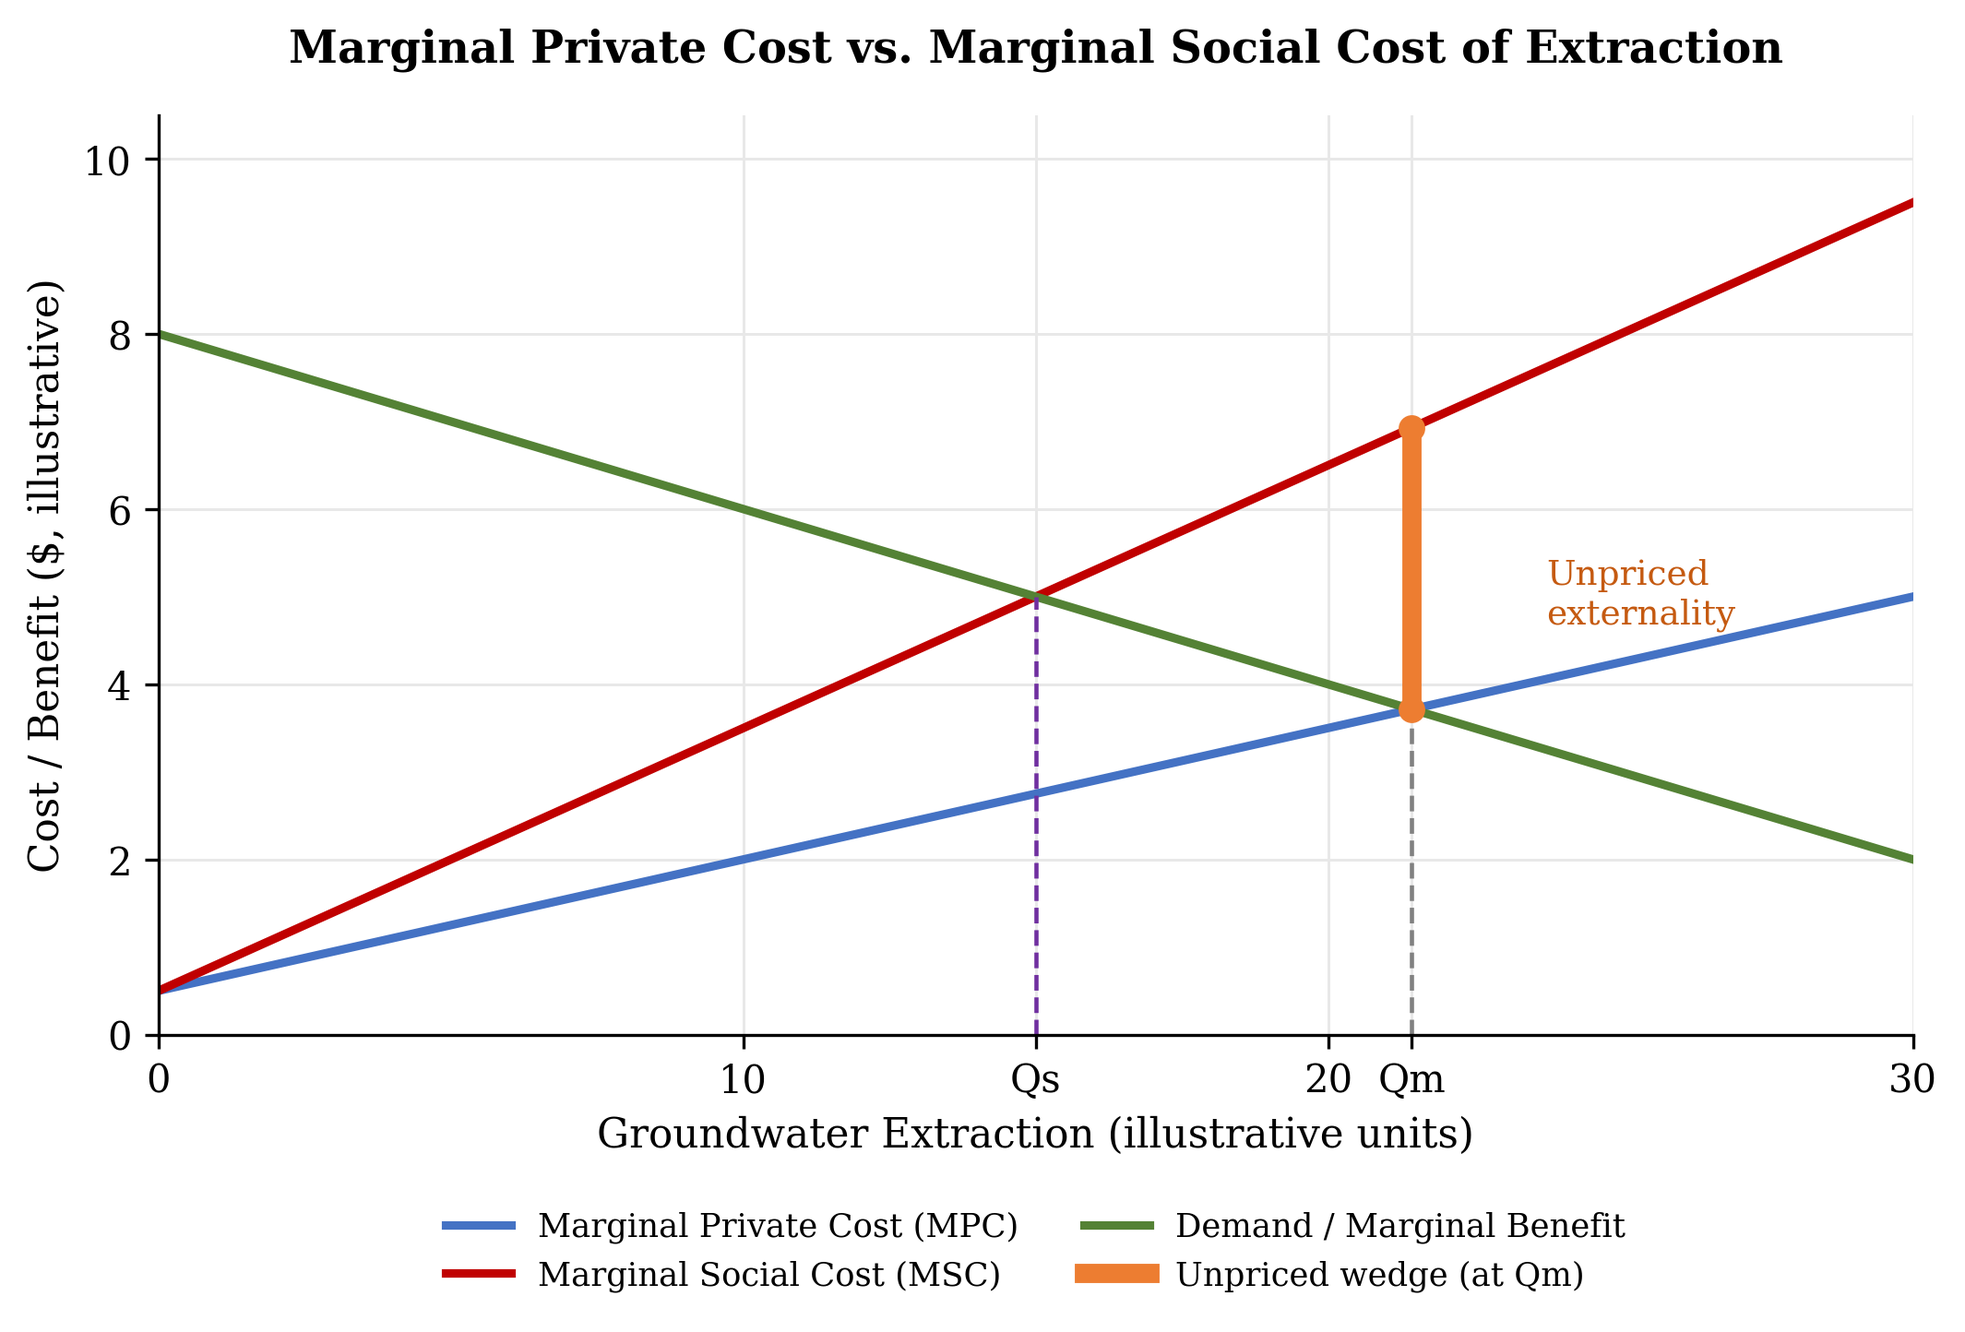
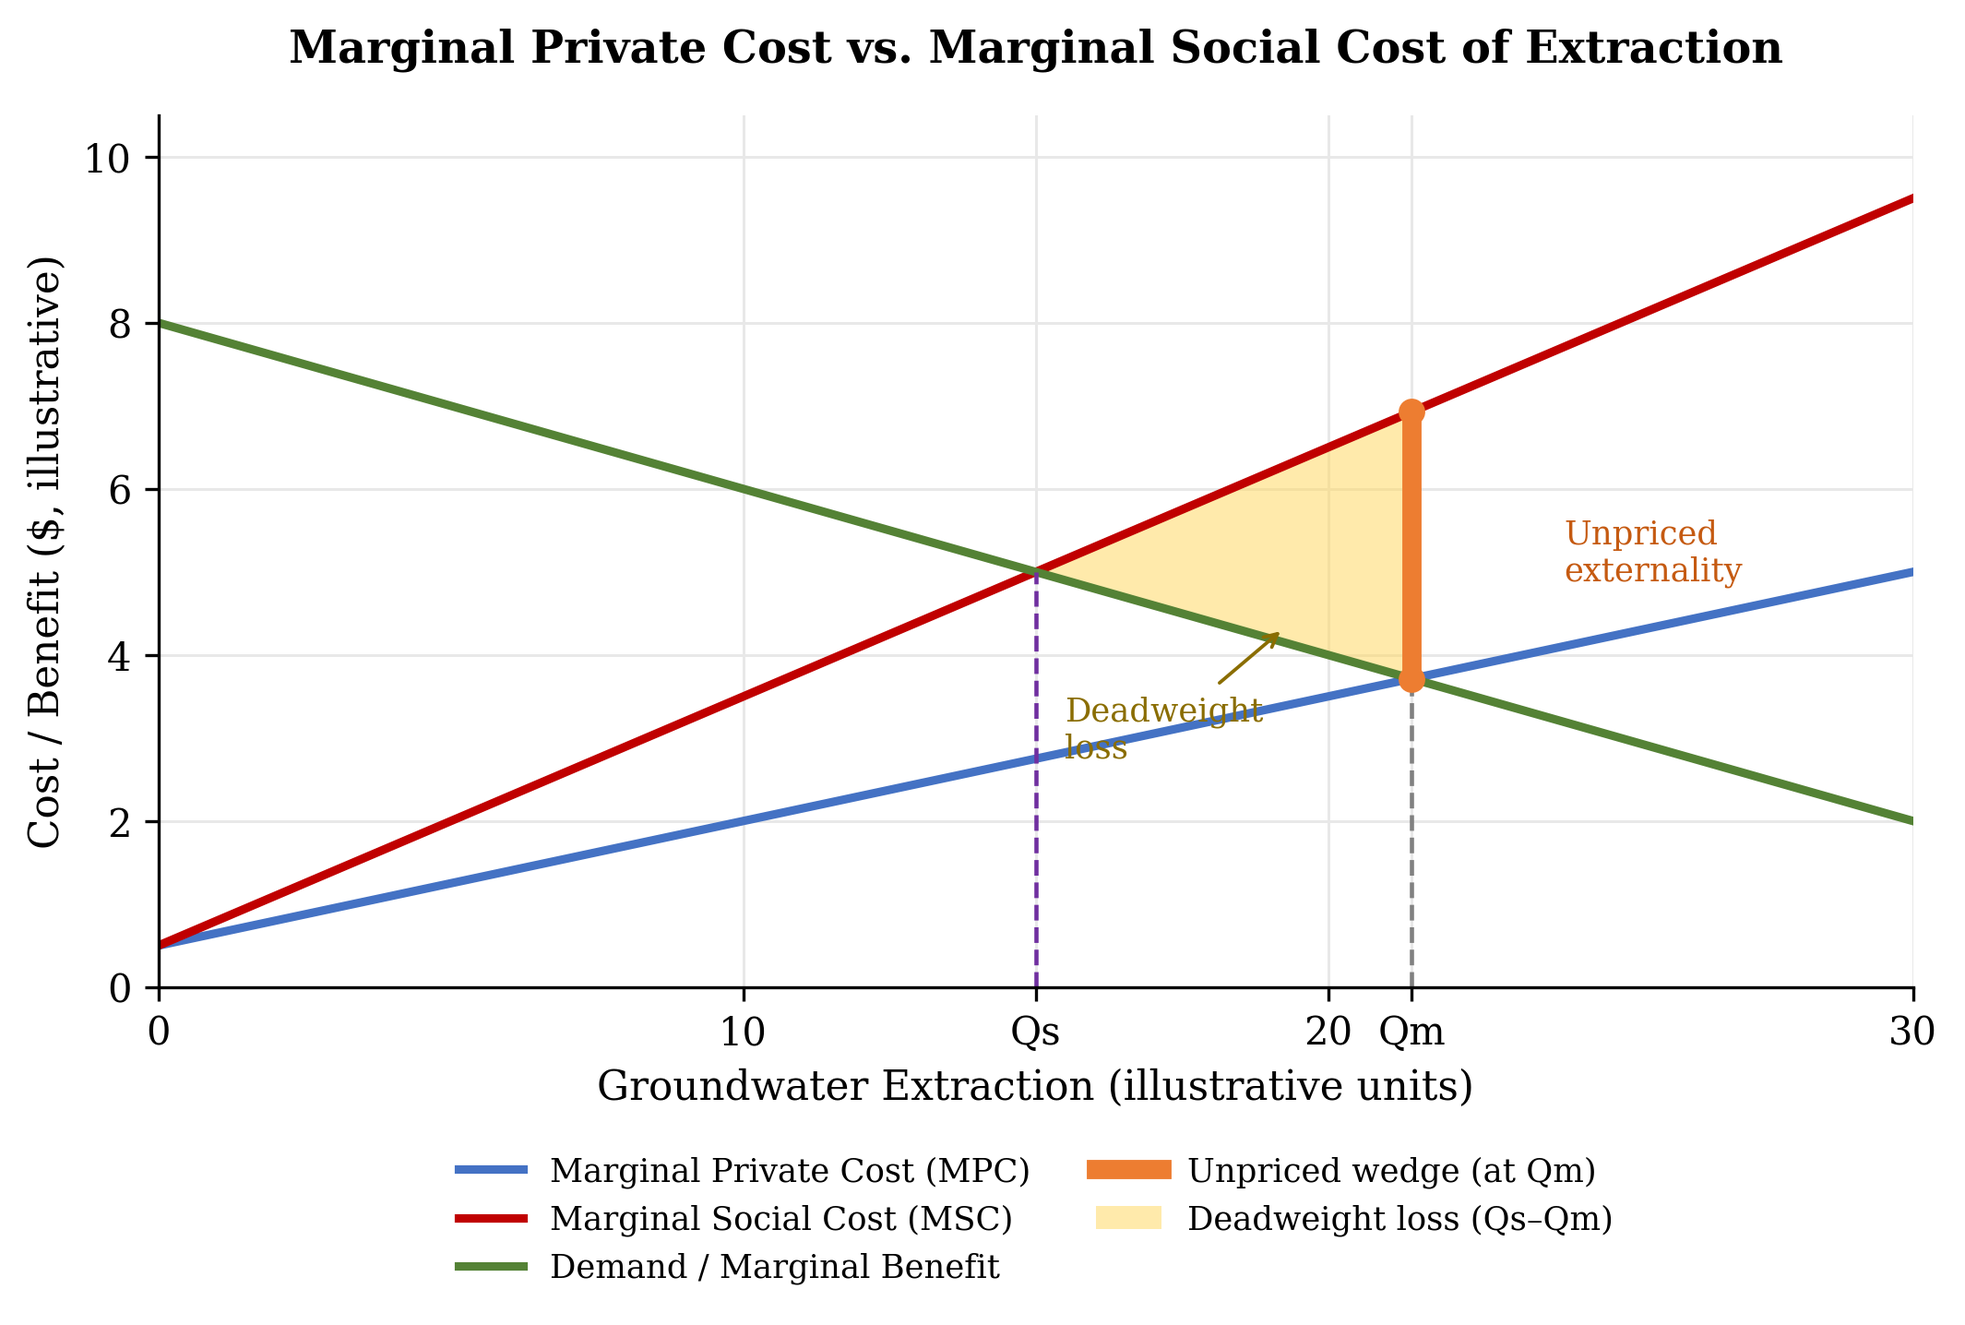
Second draft: Figure 1 rebuilt by aquifer system
The first draft's figure charted the whole Central sector against the
combined 26 mgd yield, where every modern bar sits under the line — the
opposite of the paper's argument. Aggregation let Kama'ole's unused
allowance absorb Kahului's overdraft. Figure 1 is now four per-system
panels against each system's own yield; the sector chart survives as
Figure 3, captioned with what it obscures.

Also: the aggregation objection and its answer, the public-trust ground
for permitting existing users, the cap rather than the fee as the binding
instrument, the derived Kama'ole figure flagged, the scaffold's
instruction line removed from the title page, and the body trimmed back
toward four pages.

Claude-Session: https://claude.ai/code/session_01SR48cr5PFnDzaUJgfx5jLE

diff --git a/drafts/2026-09-18-draft.md b/drafts/2026-09-18-draft.md
@@ -1,0 +1,98 @@
+---
+type: draft
+engagement: maui-groundwater
+capability: economic-research
+date: 2026-09-18
+status: draft
+---
+
+# Groundwater Extraction and the Contracting Recharge Subsidy in Central Maui
+
+*Second draft. Rebuilds Figure 1 by aquifer system after the first version's
+sector-level chart showed the basin inside its combined yield — the opposite of the
+argument. Adds the aggregation objection, the public-trust ground for permitting
+existing users, and the elasticity limit on the fee.*
+
+## The Challenge
+
+Central Maui's Kahului and Pā'ia aquifer systems are being pumped above their published sustainable-yield figures. The latest 12-month moving average through May 31, 2026 reports about 7.760 mgd from Kahului and 15.175 mgd from Pā'ia (Maui Now, Sept. 2026, citing CWRM Deputy Director Ciara Kahahane) — against sustainable yields of 1 mgd and 7 mgd, respectively (CWRM, 2019 WRPP, Table F-11), or roughly 776% and 217% of yield. The same aquifer complex supports agriculture, Maui County's municipal system (Maui County DWS, Water Source Report, Feb. 10, 2026), and county-projected population growth through 2035 (Maui County DWS, WUDP Summary, Feb. 2025). Neither system is designated a Ground Water Management Area, so CWRM cannot yet impose a volume cap through water-use permits (Haw. Rev. Stat. §174C-41). Extraction is unpriced and unmeasured against a current recharge benchmark, while the imported water that may be providing that recharge shrinks under drought.
+
+## What the Sustainable-Yield Numbers Measure
+
+The sustainable-yield number is a planning benchmark, not a real-time accounting of every gallon in an aquifer. CWRM's Table F-11 note is central: published yields for Kahului and Pā'ia ignore significant return irrigation (CWRM, 2019 WRPP, Table F-11), water that seeps back and is later withdrawn unmetered. The 1 mgd and 7 mgd figures are primary CWRM values (CWRM, 2019 WRPP); the 7.760 mgd and 15.175 mgd figures are a moving average from Maui Now (Sept. 2026) — reported, not primary, data.
+
+The numbers also do not fully reconcile across time. CWRM's May 2026 staff submittal reports the full Central sector — Kahului, Pā'ia, Makawao, and Kama'ole — withdrew 16.7 mgd in 2023, with Kahului alone at 5.2 mgd (CWRM Staff Submittal B2, May 19, 2026). The May 2026 average above covers only two of those four systems and already totals about 22.9 mgd. Part of the gap is scope, but the growth in under three years cannot be fully explained by scope alone — itself evidence of the gap CWRM should close.
+
+## The Economics
+
+Four mechanisms explain why the system can overpump despite physical uncertainty. First, groundwater is a common-pool resource: Mahi Pono, Maui County's DWS, and other well users draw from the same aquifer (Maui County DWS, Water Source Report, Feb. 10, 2026), and no single user can protect the shared lens alone. If freshwater is depleted, saltwater rises and contaminates it.
+
+Second, extraction is a negative externality: pumping that lowers water levels or pulls the transition zone inland costs municipal customers and the public, though the record does not yet prove measurable chloride damage here (USGS, Jan. 2025). Third, groundwater is mispriced: a large user pays to operate a pump but not the scarcity cost imposed on future users. Fourth, return irrigation may replenish groundwater at no cost to the pumper (CWRM, 2019 WRPP, Table F-11), unpriced until drought shrinks the flow.
+
+## Implications — What Happens Next
+
+If East Maui surface water diminishes, agriculture can substitute groundwater, preserving near-term production while drawing down the buffer return irrigation had created.
+
+Central Maui pumping reached a much higher reported peak of about 120 mgd in 1996, before sugarcane ended (CWRM Staff Submittal B2, May 19, 2026). The issue is not that today's rate is the highest ever — it is that pumping is high relative to published yield, the return-flow buffer is contracting, and the state lacks one updated system connecting pumping, deliveries, recharge, chloride, and water levels here. No deep monitor wells exist in the study area to track the freshwater lens or transition zone (USGS, Jan. 2025), and USGS ranks all four Central-sector systems high priority for monitoring (USGS, Monitoring Needs Assessment, 2020) — a documented monitoring gap, not a demonstrated harm, and the one this paper asks CWRM to close.
+
+## Recommendation
+
+I recommend CWRM designate the Kahului and Pā'ia aquifer systems as Ground Water Management Areas under Hawaiʻi Revised Statutes §174C-41, coordinating with the Central aquifer sector where flows connect them. Permitting existing users regulates a public resource rather than taking a private one: the State holds all water in trust and there are no vested rights in the use of public water (In re Water Use Permit Applications, 94 Haw. 97 (2000); Haw. Rev. Stat. §174C-2(b)). Kahului alone clears the statutory 90%-of-sustainable-yield designation trigger (§174C-44) on every reported vintage — 520–776% of its 1 mgd yield is not a marginal case.
+
+CWRM should require large agricultural, commercial, and industrial users pumping over 100,000 gallons per day (0.1 mgd) to install audited digital meters — my proposed line, not an existing exemption. The threshold targets the few large users who account for most withdrawals and leaves small users outside it.
+
+The first year should establish a verified baseline of withdrawals, deliveries, return flow, water levels, and chloride; CWRM should then set a basin cap using updated sustainable-yield estimates. The fee applies to withdrawals above each large user's permitted allotment, rising toward the cap — illustratively, $2–10 per 1,000 gallons above allotment, with the final schedule set once baseline data are verified. CWRM would administer permits, audit records, and penalize tampering; agricultural users get one year to comply.
+
+The cap does the binding work here, not the fee: once East Maui deliveries fall, groundwater has few near-term substitutes, so demand is only weakly price-responsive and the fee alone would mostly transfer revenue rather than reduce withdrawals. Its purpose is to fund monitoring and ration marginal use once the cap binds.
+
+Designation is therefore justified not because the existing sustainable-yield percentages are perfectly accurate, but because the State cannot responsibly manage a contracting recharge system it does not currently measure or regulate.
+
+## Objections
+
+The strongest objection is that overdraft appears overstated because imported surface water returns to the aquifer (CWRM, 2019 WRPP, Table F-11), and a cap based on the old denominator could restrict agriculture unnecessarily. My response: this argues for better measurement, not an unregulated basin — designation lets CWRM update the denominator and adjust the cap if data show balance.
+
+A second objection is that Figure 3's sector total cuts against this paper: Central-sector withdrawals sit comfortably under the combined 26 mgd sustainable yield. That holds only if the sector, not the system, is the right regulatory unit. It is not: CWRM sets and measures yields at the system scale — Kahului's 1 mgd yield is a system-level number — so Kamaʻole's unused 11 mgd offsets Kahului's deficit on paper without moving water to Kahului's wells. Return flow crossing boundaries justifies modeling recharge at the sector scale, not regulating at it — designation should track the unit CWRM licenses and measures, which is why this paper targets Kahului and Pāʻia specifically (Figure 1), not the sector.
+
+A third objection is that CWRM funded a roughly $442,000 USGS study in May 2026, so some will argue for waiting (CWRM Staff Submittal B2, May 19, 2026). Waiting leaves large users unregulated meanwhile; designation should begin now, with year one as a measurement period and the cap revised as better estimates arrive.
+
+## Figure 1
+
+![Figure 1](../analysis/figures/figure-1-withdrawals-by-system.png)
+
+*Figure 1. Reported withdrawals by aquifer system against each system's own CWRM sustainable-yield benchmark (CWRM, 2019 WRPP, Table F-11; CWRM Staff Submittal B2, May 19, 2026; Maui Now, Sept. 2026). Kahului exceeds its 1 mgd yield by 520–776% across every reported vintage; Pāʻia is near its 7 mgd yield in 2023 and over it by May 2026; Makawao and Kamaʻole sit well under their own yields (Kamaʻole's 2023 figure is computed as the Central-sector remainder). Aggregating to the Central-sector level, as Figure 3 does, obscures this: Kamaʻole's unused allowance offsets Kahului's deficit on paper without moving water to wells near Kahului. May 2026 bars (hatched) cover only Kahului and Pāʻia and are reported, not primary, data.*
+
+## Figure 2
+
+![Figure 2](../analysis/figures/figure-2-externality-diagram.png)
+
+*Figure 2. Illustrative diagram of the mechanism described in “The Economics”: because pumping is unpriced, users extract to Qm, where demand meets only the marginal private cost (MPC), rather than to the efficient quantity Qs, where demand meets the marginal social cost (MSC). The orange bracket marks the unpriced externality at Qm; the shaded triangle is the resulting deadweight loss. Curve shapes are illustrative and not fitted to measured cost data, since none exists; the downward-sloping demand curve is a simplification — as “Implications” notes, agriculture substitutes groundwater for surface water when deliveries fall, so demand may be closer to vertical in practice, which is why this paper treats the quantity cap, not the fee, as the instrument that does the binding work.*
+
+## Figure 3
+
+![Figure 3](../analysis/figures/figure-3-sector-context.png)
+
+*Figure 3. Central aquifer sector withdrawals against the Central-sector sustainable-yield benchmark, 1996–May 2026 (CWRM Staff Submittal B2, May 19, 2026; Maui Now, Sept. 2026). Shown for long-run context only: today's sector-level withdrawals are well below the 1996 peak and, on this aggregated view, under the combined 26 mgd yield. That is precisely the aggregation problem Figure 1 and Objections address — the sector total is compliant while Kahului, individually, is not.*
+
+## References
+
+- Commission on Water Resource Management. Water Resource Protection Plan 2019 Update. Table F-11, aquifer notes for the Kahului and Pā'ia aquifer systems.
+
+- Commission on Water Resource Management. Staff Submittal B2, May 19, 2026: Joint Funding Agreement with the U.S. Geological Survey, "Analysis of Groundwater Flow in the Central Aquifer Sector, Maui, Hawai'i."
+
+- U.S. Geological Survey, Pacific Islands Water Science Center. "Analysis of Groundwater Flow in the Central Aquifer Sector, Maui, Hawai'i." January 2025. Exhibit 2 to CWRM Staff Submittal B2.
+
+- U.S. Geological Survey. Hydrological Monitoring Needs Assessment for the State of Hawai'i. 2020.
+
+- In re Water Use Permit Applications (Waiahole), 94 Haw. 97, 9 P.3d 409 (2000).
+
+- Haw. Rev. Stat. §174C-41 (ground water management area designation); §174C-44 (designation criteria, including the ninety per cent of sustainable yield threshold); §174C-2(b).
+
+- Maui Now. [Title], September 2026. [Reported CWRM 12-month moving average through May 31, 2026.]
+
+- Maui County Department of Water Supply. Water Source Report, February 10, 2026.
+
+- Maui County Department of Water Supply. Water Use and Development Plan – Summary Document (WUDP Summary). February 2025.
+
+---
+
+-Drafted with help from Claude (Anthropic, 2026); reviewed and edited by me.

diff --git a/prompt-log.md b/prompt-log.md
@@ -4,6 +4,7 @@ Running record of AI sessions that materially shaped this repository — not a t
 
 | Date | Tool | Session | Summary |
 |---|---|---|---|
+| 2026-09-18 | Claude Code | First draft attacked; Figure 1 rebuilt | Wrote the first full draft and had Claude Code review it against the rubric rather than proofread it. The finding that mattered was about my own figure: I had charted withdrawals for the whole Central sector against the combined 26 mgd sustainable yield, and every modern bar sits under that line — 22.9 against 26 in May 2026. My only evidence figure showed a basin inside its limit while the text demanded a cap. The cause was aggregation: pooling four systems lets Kama'ole's unused 11 mgd absorb Kahului's 7.760 against a yield of 1. I rebuilt Figure 1 as four per-system panels, each against its own yield line, and kept the sector chart as Figure 3 with a caption saying what it obscures. The same finding gave me the objection I was missing — that the sector total is compliant — and my answer to it, that CWRM sets and measures yields at the system scale, so return flow crossing boundaries justifies modeling recharge at the sector scale but not regulating at it. Claude Code also caught that my externality diagram assumed price-responsive demand while my own Implications section described agriculture substituting groundwater when surface deliveries fall, which is close to vertical demand; I resolved it by making the cap the binding instrument and saying so. Second pass caught four smaller things: the scaffold's instruction line still sitting on my title page, four references never cited in the text, Kama'ole's 3.7 mgd being a figure I had derived by subtraction rather than read from the source, and a body over four pages. Fixed all four — the public trust doctrine now earns its citation by answering the takings objection to permitting existing users. |
 | 2026-09-16 | Claude Code | Research paper Steps 1–3: brief corrected, spec built, first draft committed | Committed the brief I had drafted, then had Claude Code check it against the assignment page and the syllabus email. It confirmed the `economic-research` capability slug the assignment names, stood up the capability folder, and put `scratch/` in `.gitignore`. The substantive work came from the source documents. I supplied CWRM's 2019 WRPP Table F-11, whose note says the Kahului and Pā'ia sustainable yields "ignore significant importation of surface water (return irrigation)" and that this is why withdrawals far above those yields have shown no apparent negative impacts — the State's own version of the argument I had attributed to Mahi Pono alone. That forced the thesis off the overdraft percentages and onto the contraction of the recharge subsidy. I then supplied the real CWRM Staff Submittal B2 of May 19, 2026 with the USGS project document attached, which corrected four more things: Kahului and Pā'ia are aquifer systems inside the Central sector, not sectors; 2023 withdrawals were 5.2 mgd for Kahului and 6.8 for Pā'ia against a yield of 7, so Pā'ia was under its limit; the sector peaked at 120 mgd in 1996 and the 2016 end of sugarcane cut the recharge base; and the aquifer-system boundaries are not hydrologic, so flow crosses them and every per-aquifer ratio is qualified. Claude Code had earlier told me the May 19 submittal was the primary source behind the reported pumpage figures and that I should cite it instead of the news coverage. That was wrong — the file it had seen was public testimony from an advocacy group, and it said so once I supplied the actual staff submittal. Two limits I decided rather than it: the 12-MAV figures stay in with a provenance note, because the originals need a records request that will not return inside the timeline; and the paper's prose is mine. Claude Code built the Word scaffold, the falsifier rewrites, and the section prompts; I wrote the draft. |
 | 2026-09-16 | Claude (chat) | Brief frontmatter, disclosure line and Step 2 plan | Used a chat session to add repo frontmatter to the brief and to sketch the sub-steps for the spec — data sources, figures, success criteria. It guessed `bus-620-research-paper` for the engagement slug and flagged the guess rather than asserting it; I changed it to `maui-groundwater` to match the topic-slug convention the perfect-competition engagement set. Its disclosure line did not match the repo's standard wording and dropped the "reviewed and edited by me" clause, which is the part the convention exists to assert; replaced with the standard line. |
 | 2026-09-11 | Claude Code | Adam's Stage 3 feedback checked and applied | Pasted Adam's feedback in and had it checked against the workbook rather than taken on trust. Three of his four items described the 09-09 draft he had read (`30d91bb`), not the committed version: the at-a-loss section, the hypothesis revisit and the disclosure line were all finished on the evening of 09-10. His fourth item was real and had survived into the committed prose — I had written that price exceeds average variable cost on every crop, which is only true at the bed counts the plan plants. Claude rebuilt the cost model independently from `Inputs` and confirmed his exact figures: mesclun AVC above $2,700 at beds 13 and 14 ($2,716.35 and $2,702.51), tomato AVC above $8,800 from bed 16 ($8,840.90) to $12,016.72 at bed 20, carrots never crossing. It traced both exceptions to the same 720-hour wage boundary as the bed 6 dip, which is what made the correction worth more than a hedge. It also found a second copy of the overgeneralization in cell A10 of the AVC sheet, which I would have missed because it is not in a markdown file, and two files missing the AI-disclosure line the repo convention requires — the decision memo and the capability README. Adam's provenance note was itself slightly off: the 2026-09-08 commits he cites changed §3.13 of the spec, not an AVC claim, and §3.14 already scoped AVC correctly to `q*`. Only the prose had drifted. |
